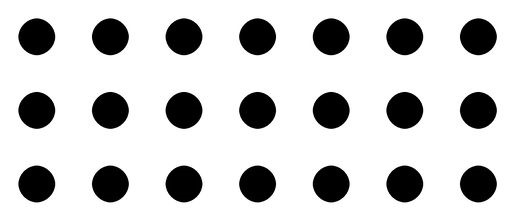
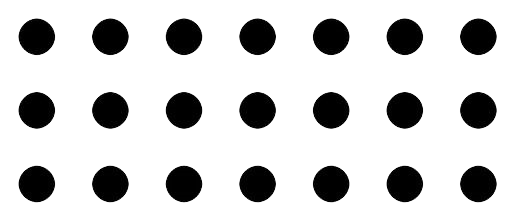
pridanie priehladnosti do dots-png a nastavenie spravneho z-indexu

diff --git a/styles.css b/styles.css
@@ -75,15 +75,17 @@ html{
     background-color: aliceblue;
     margin: 0 auto;
     position: relative;
+    z-index: -1;
 }
 
 #overviewImg{
     transform: scale(0.8);
     position: absolute;
     left: -120px;
+    z-index: -1;
     
 }
 
 #dotsPng{
-    z-index: 10;
+    z-index: 0;
 }
